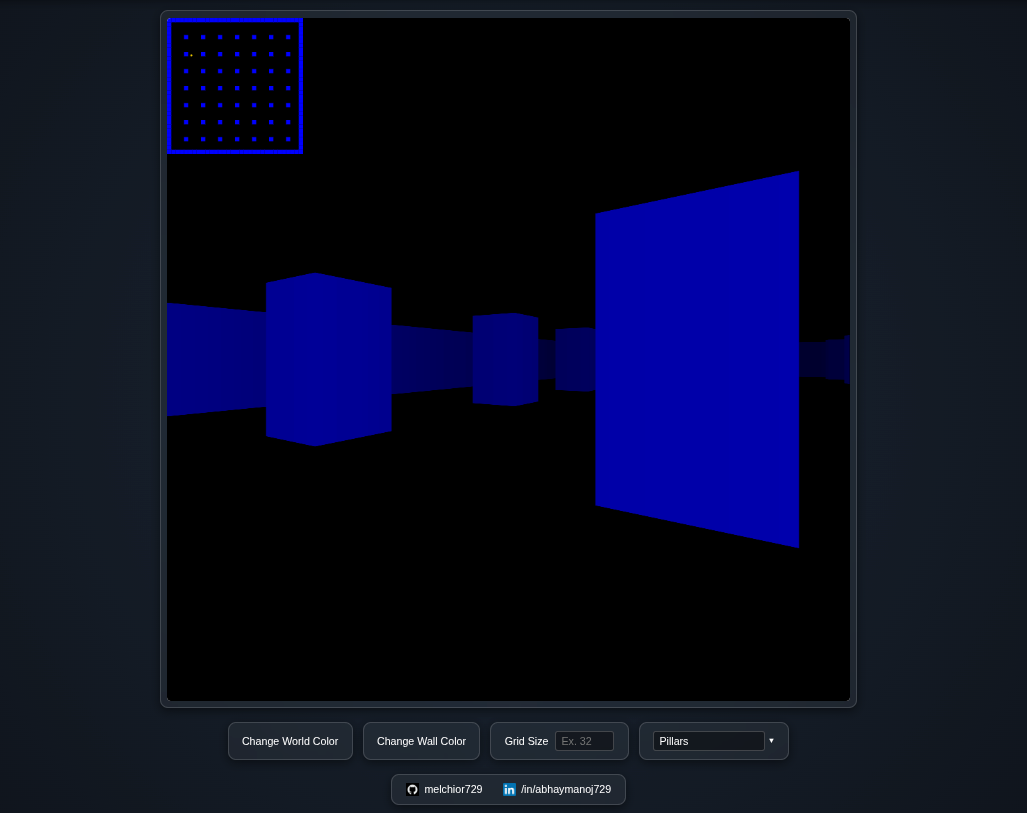
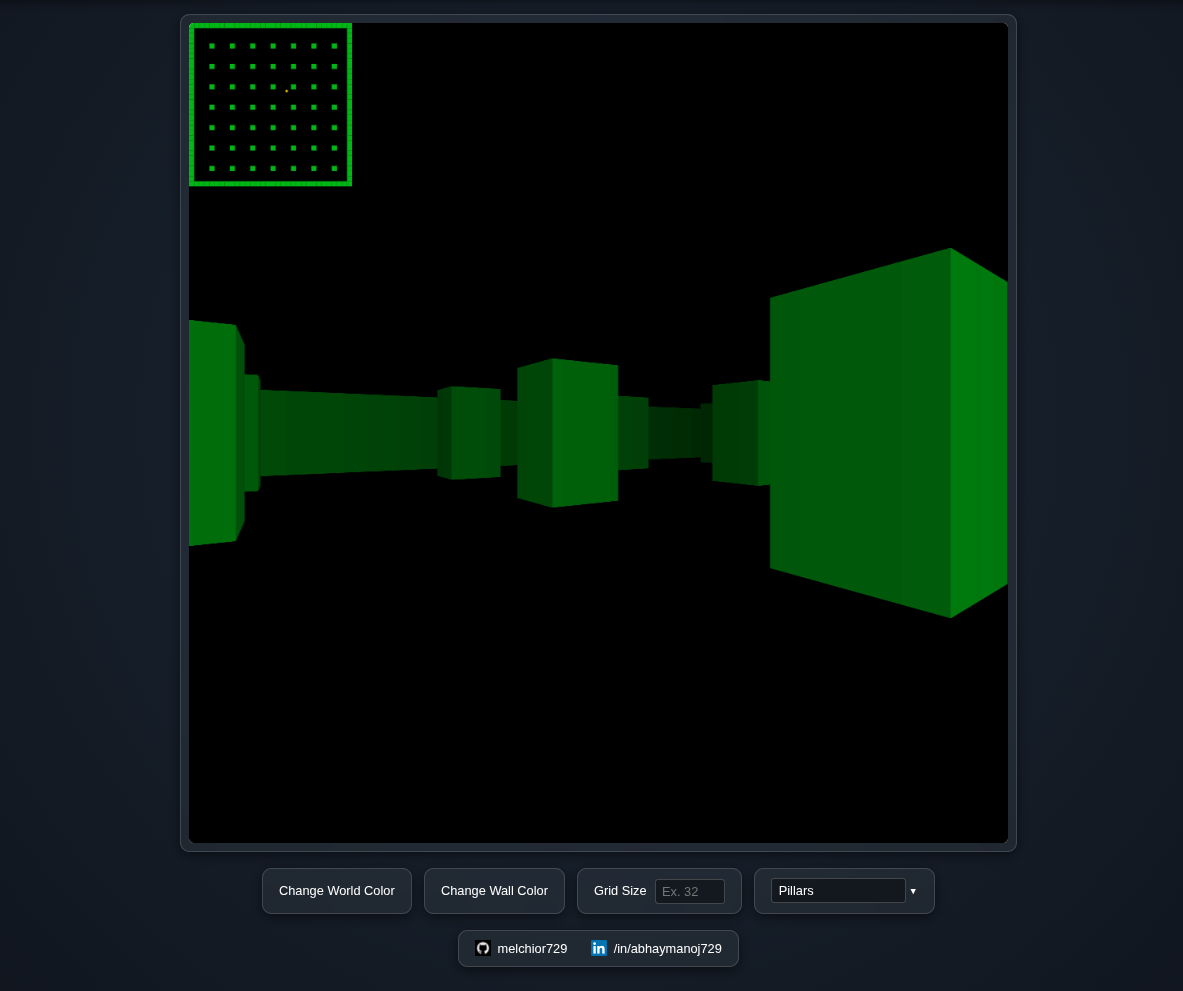
added shading and changed image

Changed region(s): [[0.1558, 0.0, 0.8724, 0.984]]

diff --git a/src/Raycaster.js b/src/Raycaster.js
@@ -7,7 +7,7 @@ export default class Raycaster {
 
   constructor(width) {
     this.width = width;
-    this.rayLengths = new Float32Array(width);
+    this.rays = [];
   }
 
   /**
@@ -26,7 +26,12 @@ export default class Raycaster {
         x: dir.x + plane.x * fovX,
         y: dir.y + plane.y * fovX
       };
-      this.rayLengths[i] = this._dda(x, y, ray, world);
+
+      const { direction: distance, hitVertical } = this._dda(x, y, ray, world);
+      this.rays[i] = {
+        distance: distance,
+        side: hitVertical
+      };
     }
   }
 
@@ -60,23 +65,24 @@ export default class Raycaster {
     let [stepX, distX] = this._getStepAndDist(x, ray.x, currX, dx);
     let [stepY, distY] = this._getStepAndDist(y, ray.y, currY, dy);
 
-    let side = 0; // 0 means horizontal hit, 1 is vertical hit
+    let hitVertical = false;
     let depth = 1000;
 
     while (!world.isWall(currY, currX) && depth > 0) {
       if (distX < distY) {
         currX += stepX;
         distX += dx;
-        side = 0;
+        hitVertical = false;
       } else {
         currY += stepY;
         distY += dy;
-        side = 1;
+        hitVertical = true;
       }
 
       depth--;
     }
 
-    return side === 0 ? distX - dx : distY - dy;
+    const direction = hitVertical ? distY - dy : distX - dx;
+    return { direction, hitVertical };
   }
 }

diff --git a/src/Artist.js b/src/Artist.js
@@ -15,21 +15,25 @@ export default class Artist {
 
   /**
   * Draws the rays onto the screen.
-  * @param {number[]} rayLengths - The lengths of each ray to draw
+  * @param {{number, bool}} rays - The distance and sides of the rays.
   */
-  drawRays(rayLengths) {
+  drawRays(rays) {
     const height = this.canvas.height;
     this._fillBackground(this.canvas.width, height);
 
-    for (let i = 0; i < rayLengths.length; i++) {
-      const dist = rayLengths[i];
-      let lineHeight = height / (dist || 0.1); // if dist = 0
+    for (let i = 0; i < rays.length; i++) {
+      const { distance, side } = rays[i];
+      let lineHeight = height / (distance || 0.1); // if distance = 0
       if (lineHeight > height) {
         lineHeight = height;
       }
       const startY = (height - lineHeight) / 2;
 
-      const darkness = Math.pow(0.92, dist);
+      let darkness = Math.pow(0.92, distance);
+      if (side) {
+        darkness *= 0.7;
+      }
+
       this.ctx.strokeStyle = this.wallColor;
 
       this.ctx.globalAlpha = darkness;

diff --git a/src/main.js b/src/main.js
@@ -100,7 +100,7 @@ function main(currentTime) {
   }
 
   caster.shootRays(player, world);
-  artist.drawRays(caster.rayLengths);
+  artist.drawRays(caster.rays);
   artist.drawMap(world);
   artist.drawPlayer(player, world.tileSize, world);
   requestAnimationFrame(main);
